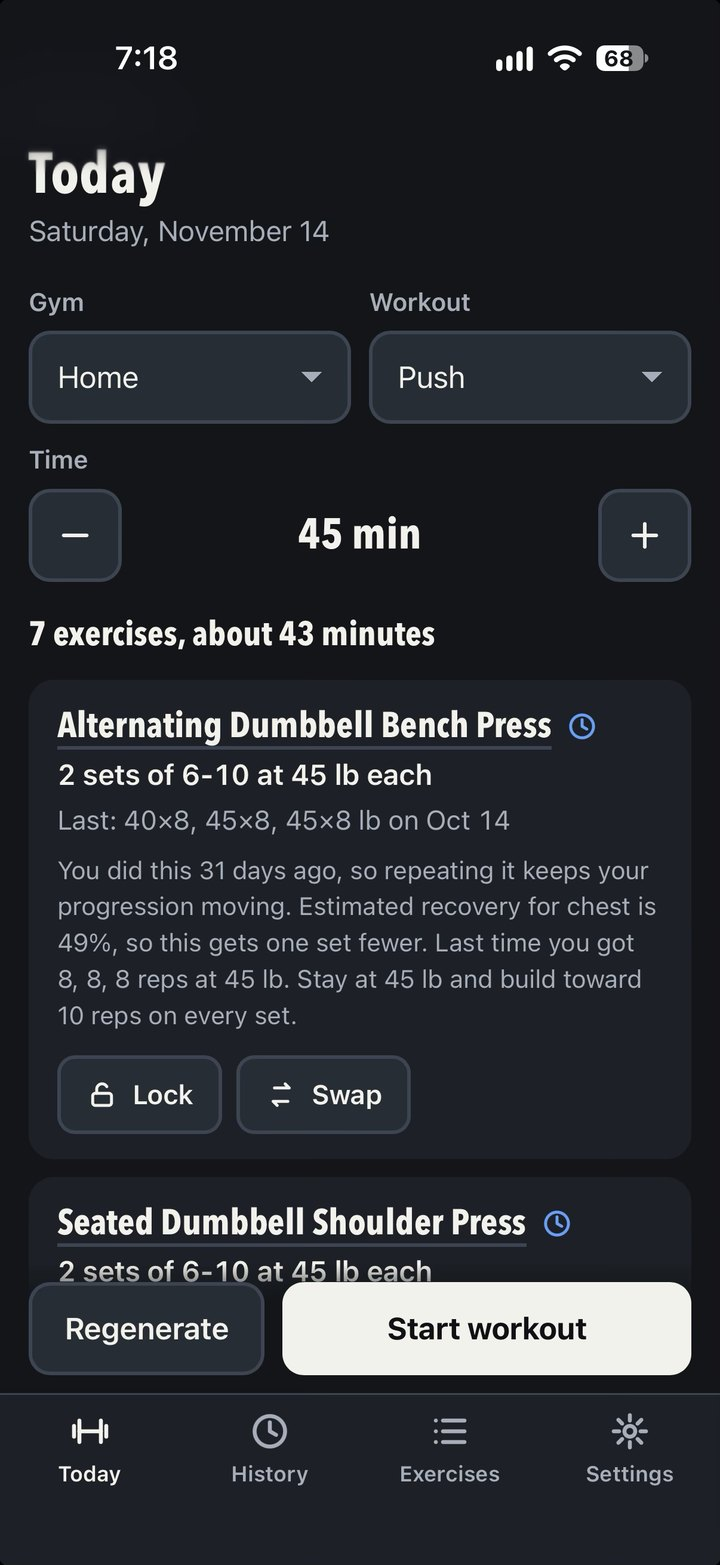
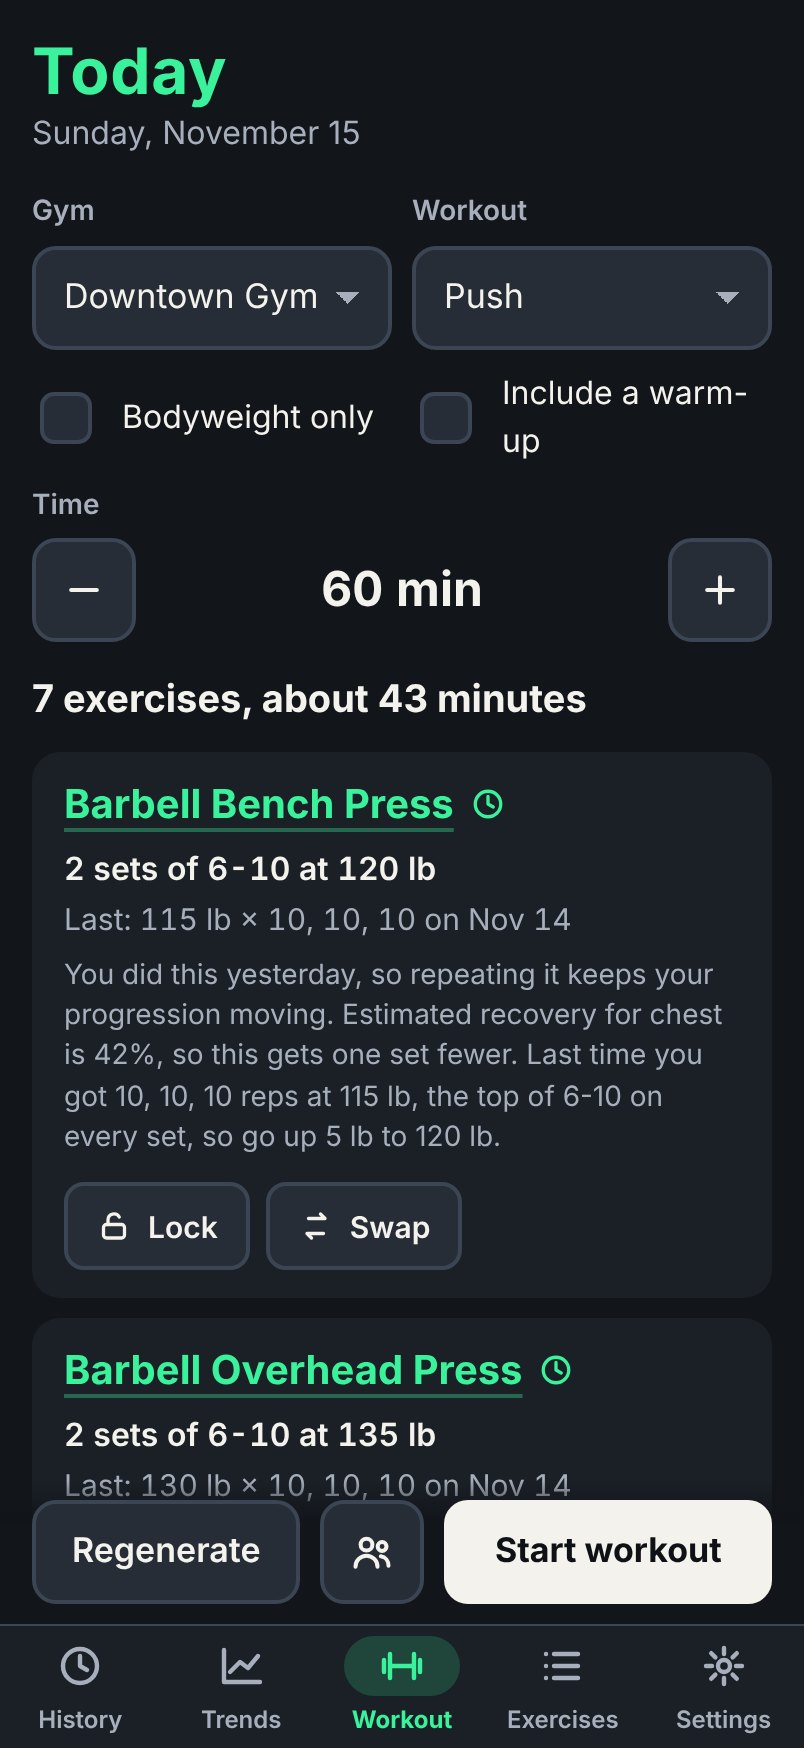
Refresh the README screenshots with six core features
Workout planner, workout in progress, exercise progress, Trends, saved
routines and a shared workout, all at 402px wide with made-up sample data,
each linking to its full-size image. docs/screenshots/capture.mjs seeds the
sample data and retakes them.

Refs #134.

Claude-Session: https://claude.ai/code/session_01AGct8uh1MFCYbGp2NNcrRX

diff --git a/README.md b/README.md
@@ -10,9 +10,15 @@ ThoeneFit is a self-hosted workout planner and log built for phones. Pick a gym 
 
 ## Screenshots
 
-| Workout planner | Set logging | Exercise history |
+| Workout planner | Workout in progress | Exercise progress |
 | :---: | :---: | :---: |
-| <a href="docs/screenshots/workout-planner.jpg"><img src="docs/screenshots/workout-planner.jpg" width="250" alt="Push workout with suggested weights and exercises"></a> | <a href="docs/screenshots/set-logging.jpg"><img src="docs/screenshots/set-logging.jpg" width="250" alt="Completed sets and the active rest timer"></a> | <a href="docs/screenshots/exercise-history.jpg"><img src="docs/screenshots/exercise-history.jpg" width="250" alt="Leg Extension history and top-weight trend chart"></a> |
+| <a href="docs/screenshots/workout-planner.jpg"><img src="docs/screenshots/workout-planner.jpg" width="250" alt="Today screen at Downtown Gym: a Push workout of 7 exercises, about 43 minutes, with Barbell Bench Press suggested at 120 lb after 115 lb × 10, 10, 10 last time"></a> | <a href="docs/screenshots/workout-in-progress.jpg"><img src="docs/screenshots/workout-in-progress.jpg" width="250" alt="Push workout in progress: two Barbell Bench Press sets done at 120 lb, the first Overhead Press set up next, and the rest timer counting down"></a> | <a href="docs/screenshots/exercise-progress.jpg"><img src="docs/screenshots/exercise-progress.jpg" width="250" alt="Barbell Bench Press history: top weight rising from 95 to 115 lb, with the Oct 31 session selected showing 110 lb × 10, 10, 10"></a> |
+
+| Trends | Saved routines | Shared workout |
+| :---: | :---: | :---: |
+| <a href="docs/screenshots/trends.jpg"><img src="docs/screenshots/trends.jpg" width="250" alt="Trends: weekly lifting volume and workout time over eight weeks, and the recovery estimate for each muscle group"></a> | <a href="docs/screenshots/saved-routines.jpg"><img src="docs/screenshots/saved-routines.jpg" width="250" alt="The Workout picker open on Your routines: Back and Biceps, Heavy Legs and Monday Push"></a> | <a href="docs/screenshots/shared-workout.jpg"><img src="docs/screenshots/shared-workout.jpg" width="250" alt="Sam's Today screen after accepting Alex Rivera's workout: Shared by Alex Rivera, with weights suggested from Sam's own history"></a> |
+
+Sample data: Alex Rivera and Sam Lee are made-up people at a made-up gym. Tap a preview to open it at full size. To refresh these, see the steps at the top of [`docs/screenshots/capture.mjs`](docs/screenshots/capture.mjs).
 
 ## Plan and log
 
